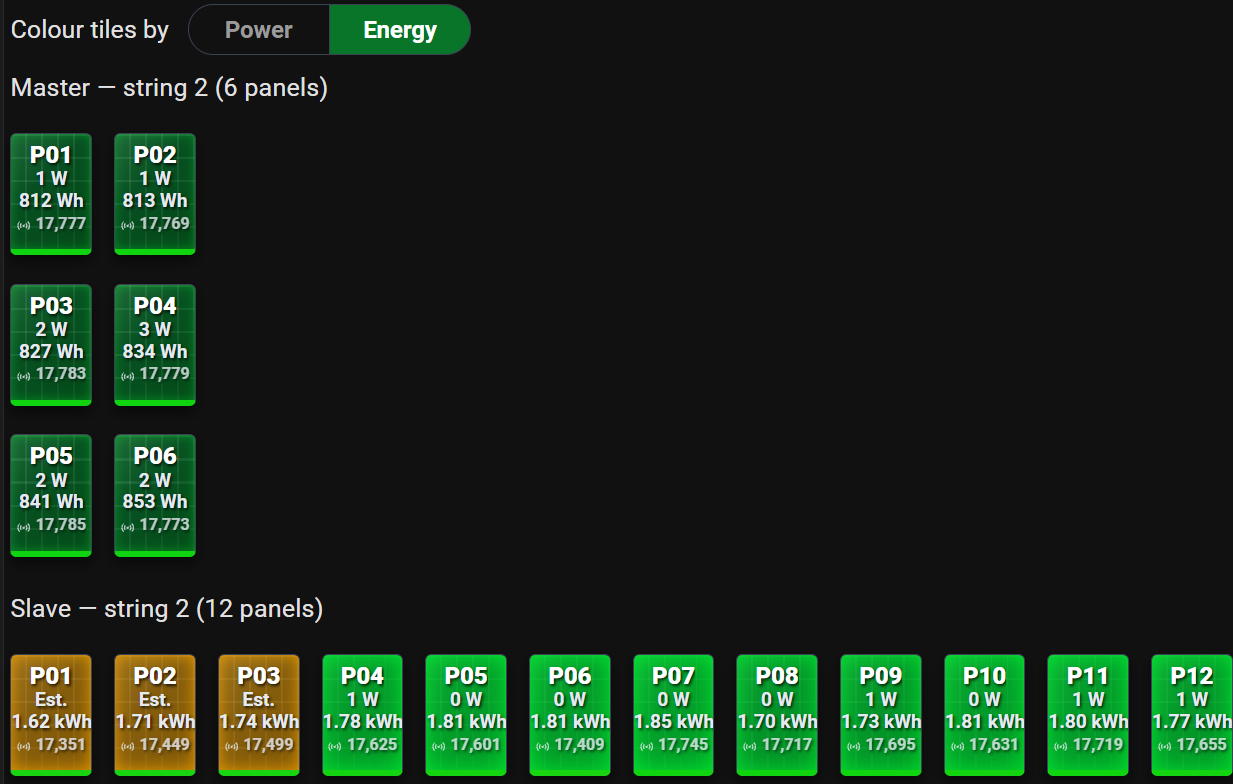
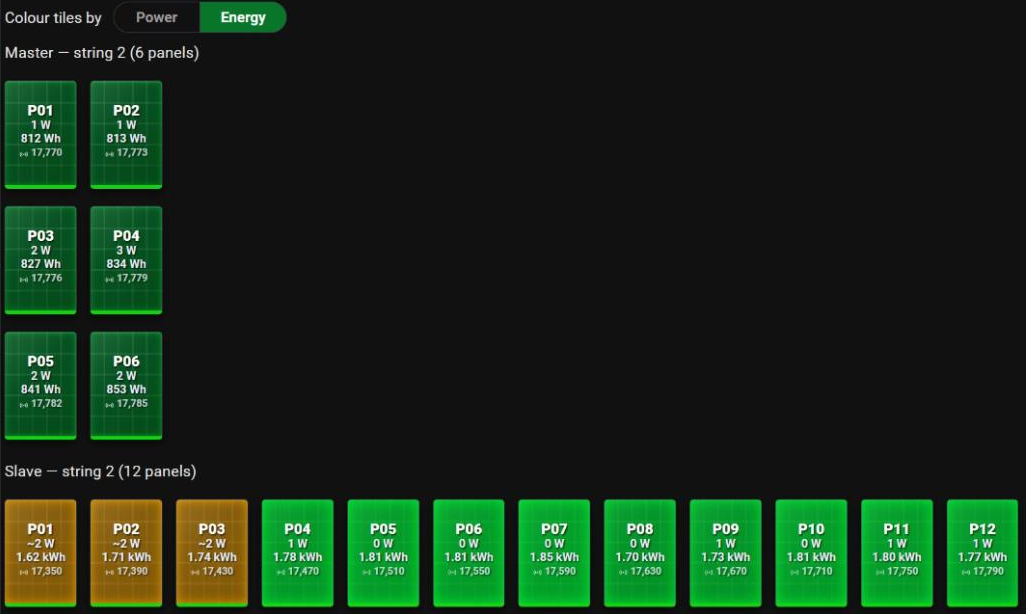
Docs: example-data screenshots of estimated tiles (~W); README front row shows a midday estimate
Captured in Chrome from a temporary dashboard using the real tile template
with demo entities (since removed).

Changed region(s): [[0.0, 0.0, 1.0, 0.9902]]

diff --git a/dashboards/pv_panels.md b/dashboards/pv_panels.md
@@ -45,9 +45,13 @@ The W and Wh units tell power and energy apart, and the readings count has its o
 
 Problems show the same way in both modes, so a silent panel is red whichever you're looking at.
 
-![PV Panels view at dusk coloured by energy: P01 and P02 of the 12-panel string amber, P03 holding](images/panels-view-energy-dusk-holding.png)
+![PV Panels view at midday coloured by power: P05 of the 12-panel string amber, estimated at about 347 W](images/panels-view-power-estimated.png)
 
-*About 17:17 at dusk, coloured by energy. On the 12-panel string, P01 and P02 have stopped reporting while the rest of their string still reports, so their share of the string total is estimated: the tiles are amber. (This screenshot predates PyTap 1.6.2; estimated tiles now show the estimate, such as `~85 W`, instead of `Est.`) P03 missed its latest report and shows its last value as `1 W*` (holding).*
+*Midday, coloured by power (example data). P05 on the 12-panel string has stopped reporting for a few minutes while its neighbours make 349–361 W, so PyTap estimates it from them: the tile is amber and shows the estimate, `~347 W`. Its own Power sensor keeps its last reading; the string and total use the estimate.*
+
+![PV Panels view at dusk coloured by energy: P01 and P02 of the 12-panel string amber at about 2 W, P03 holding at 1 W*](images/panels-view-energy-dusk-holding.png)
+
+*Dusk, coloured by energy (example data, matching what happens here around 17:15). On the 12-panel string, P01 and P02 have stopped reporting while the rest of their string still reports, so their share is estimated: the tiles are amber and show the estimate, `~2 W`. P03 missed its latest report and shows its last value as `1 W*` (holding).*
 
 ![Two minutes later: P01 to P03 amber](images/panels-view-energy-dusk-estimated.png)
 

diff --git a/README.md b/README.md
@@ -13,11 +13,13 @@
 
 <table>
   <tr>
-    <td width="50%"><img src="https://raw.githubusercontent.com/DoubleDoc/pytap/main/dashboards/images/panels-view-power-midday.png" alt="The PV Panels view coloured by power at midday"></td>
-    <td width="50%"><img src="https://raw.githubusercontent.com/DoubleDoc/pytap/main/dashboards/images/panels-view-power-night.png" alt="At night, coloured by power: every panel asleep at 0 W, with the day's energy and readings"></td>
+    <td width="33%"><img src="https://raw.githubusercontent.com/DoubleDoc/pytap/main/dashboards/images/panels-view-power-midday.png" alt="The PV Panels view coloured by power at midday"></td>
+    <td width="33%"><img src="https://raw.githubusercontent.com/DoubleDoc/pytap/main/dashboards/images/panels-view-power-estimated.png" alt="A panel that stopped reporting at midday, shown amber with its estimate of about 347 W"></td>
+    <td width="33%"><img src="https://raw.githubusercontent.com/DoubleDoc/pytap/main/dashboards/images/panels-view-power-night.png" alt="At night, coloured by power: every panel asleep at 0 W, with the day's energy and readings"></td>
   </tr>
   <tr>
     <td><sub>Coloured by power</sub></td>
+    <td><sub>A quiet panel estimated from its string (example data)</sub></td>
     <td><sub>At night: asleep at 0 W, the day's totals kept</sub></td>
   </tr>
 </table>

diff --git a/CHANGELOG.md b/CHANGELOG.md
@@ -1,5 +1,11 @@
 # Changelog
 
+## [Unreleased]
+
+### Changed
+
+- **Dashboard screenshots** — New example-data screenshots of estimated tiles (`~347 W` at midday, `~2 W` at dusk) replace the dusk screenshots from before 1.6.2, and the estimated view joins the README's front row.
+
 ## [1.7.0] - 2026-11-23
 
 Module management, from [Adam Zebrowski](https://github.com/azebro)'s review of the upstream [PR #37](https://github.com/azebro/pytap/pull/37), simplified to one rule: one entry per bus, one entry per optimizer.
